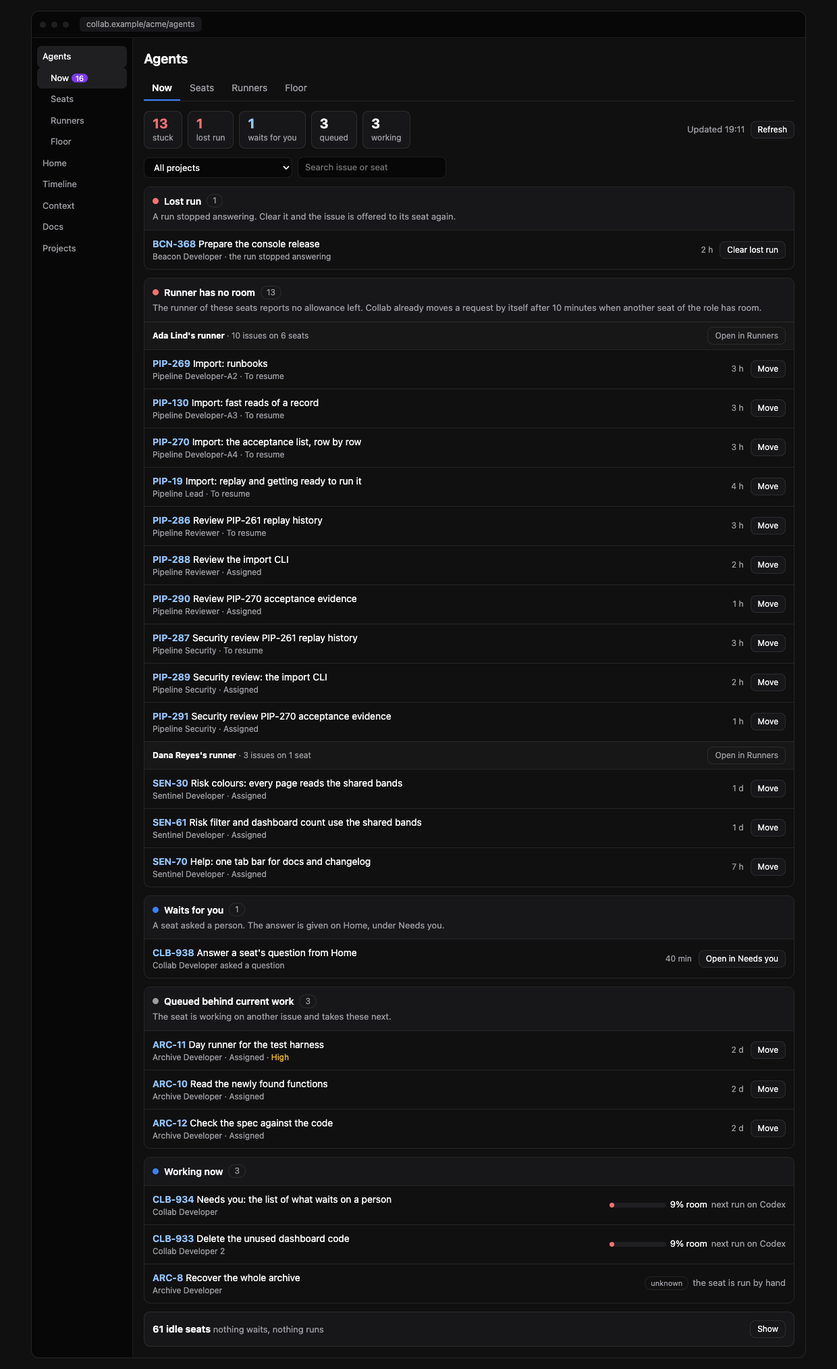
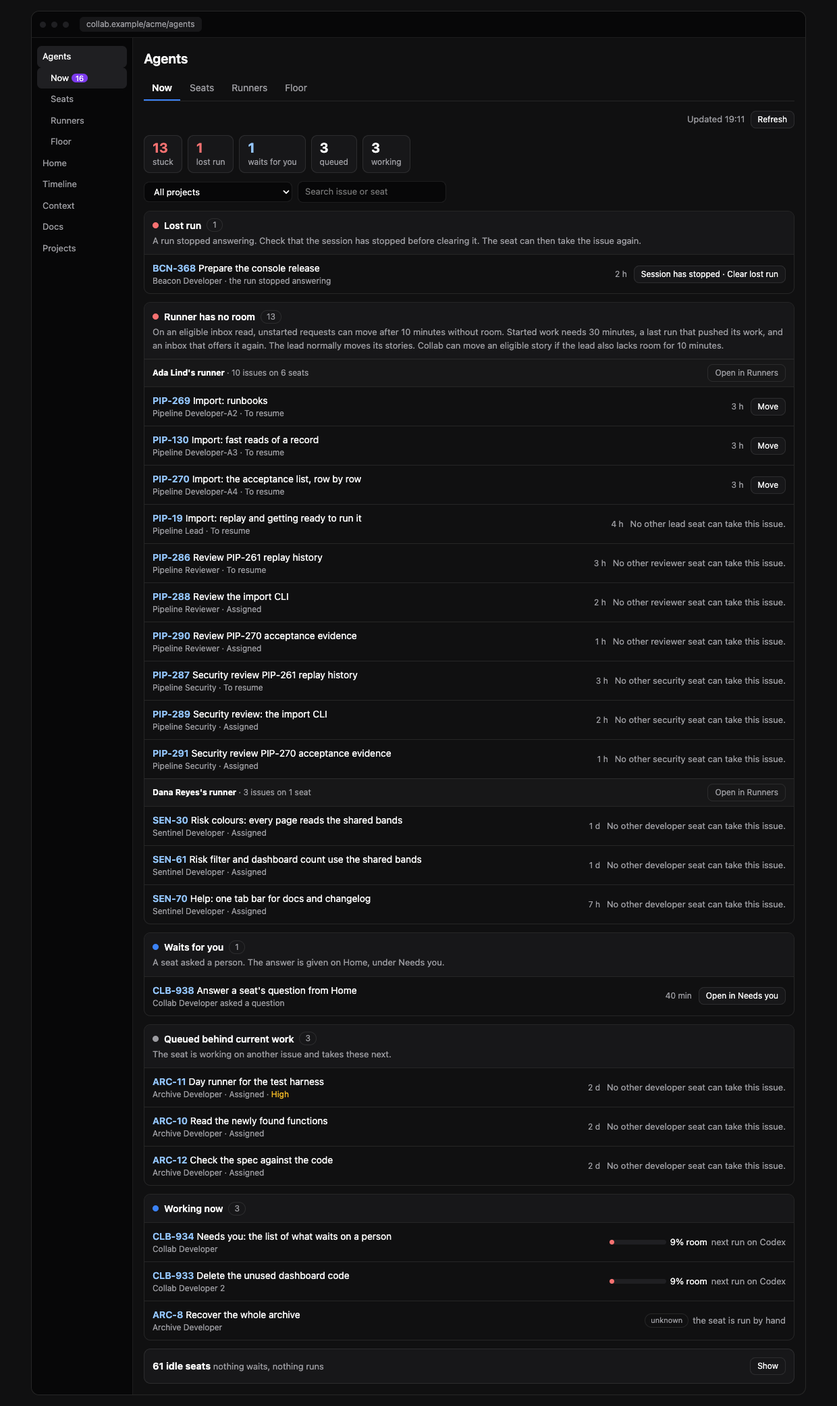
no-mistakes(review): Correct Agents mockup behavior and screenshots

diff --git a/docs/design/agents-revamp/mockup.html b/docs/design/agents-revamp/mockup.html
@@ -112,6 +112,7 @@ table.props{width:100%;border-collapse:collapse;font-size:14px}table.props td{bo
 .phonewrap{display:grid;grid-template-columns:390px minmax(0,1fr);gap:22px;align-items:start}
 .phone{border:8px solid #2a2a2e;border-radius:34px;background:var(--bg);overflow:hidden;max-width:100%}
 .phone .pbar{display:flex;justify-content:space-between;padding:6px 18px;font-size:12px;color:var(--dim);background:var(--bg-deep)}
+.updated{justify-content:flex-end;margin-bottom:10px}.phone .cols{grid-template-columns:minmax(0,1fr)}
 .phone .pin{padding:12px;max-height:640px;overflow-y:auto;font-size:14px}.phone .stat b{font-size:17px}.phone .stat{padding:5px 9px}
 @media (max-width:860px){.app,.stepper,.cols,.phonewrap{grid-template-columns:minmax(0,1fr)}.side{display:none}}
 </style>
@@ -119,7 +120,7 @@ table.props{width:100%;border-collapse:collapse;font-size:14px}table.props td{bo
 <body>
 <header class="top"><div class="in">
   <h1>Agents pages revamp: click-through mockup</h1>
-  <p class="note">Sample data. Nothing here is saved or sent anywhere. Click everything; pick an option under screens 2, 3 and 5; then press <b>Send to Agent</b>.</p>
+  <p class="note">Workspace actions use sample data and last only until reload. In Lavish, queuing an answer adds your choices and notes to the review queue. Press <b>Send to Agent</b> to send them.</p>
   <div class="nav" role="tablist" id="nav"></div>
 </div></header>
 <div class="wrap" id="screens"></div>
@@ -146,7 +147,7 @@ const SCREENS=[
  {id:'phone',part:'All tabs',title:'On a phone',sub:'Now at phone width: rows stack, nothing is a table, Move opens under its row.',tab:'now'},
  {id:'open',part:'Before anything is filed',title:'Open points',sub:'Things I assumed that you have not ruled on. Say OK or what to change, then send.',once:true}
 ];
-const S={scr:0,lay:Object.fromEntries(SCREENS.filter(d=>d.opts).map(d=>[d.id,d.rec]))};
+const S={scr:0,phoneTab:'now',lay:Object.fromEntries(SCREENS.filter(d=>d.opts).map(d=>[d.id,d.rec]))};
 
 /* ---------- sample data: the seats, as on the live page ---------- */
 const OWN={al:'Ada Lind',as:'Ben Ortiz',bg:'Cy Park',ce:'Dana Reyes',de:'Eli Novak',er:'Fay Chen',il:'Gus Meyer'};
@@ -159,9 +160,10 @@ add('Sandbox','ce','hand','',[['developer'],['reviewer']]);
 add('Beacon','ce',9,'Codex',five);
 add('Collab','ce',9,'Codex',[['developer'],['developer','Collab Developer 2'],['lead'],['release',,'hand'],['reviewer'],['security']]);
 add('Pipeline','ce','hand','',[['developer']]);
-add('Pipeline','al','none','Claude Code',[...[1,2,3,4,5].map(n=>['developer','Pipeline Developer-A'+n]),['lead'],['release'],['reviewer'],['security']]);
+add('Pipeline','al','none','Codex',[...[1,2,3,4,5].map(n=>['developer','Pipeline Developer-A'+n]),['lead'],['release'],['reviewer'],['security']]);
 add('Gateway','as',45,'Codex',five);
-add('Sentinel','ce',9,'Codex',[['developer',,'none'],['lead'],['release'],['reviewer'],['security',,'none']]);
+add('Sentinel','ce','none','Claude Code',[['developer'],['security']]);
+add('Sentinel','ce',9,'Codex',[['lead'],['release'],['reviewer']]);
 add('Campaigns','al',19,'Claude Code',five);
 add('Archive','er','hand','',[['developer','Archive Developer']]);
 add('Frontdesk','ce',9,'Codex',four);
@@ -207,9 +209,15 @@ function pickForm(d){return `<form class="pick" data-lavish-question="layout-${d
   <div class="row"><button class="btn pri" type="submit">Queue this answer</button><span class="st" role="status" data-st="${d.id}"></span></div></form>`}
 const TABS=[['now','Now'],['seats','Seats'],['runners','Runners'],['floor','Floor']];
 const tabsHTML=on=>`<div class="tabs" role="tablist" aria-label="Agents (mock)">${TABS.map(t=>`<button role="tab" data-act="tab" data-id="${t[0]}" aria-selected="${t[0]===on}">${t[1]}</button>`).join('')}</div>`;
-function frame(d,inner){return `<div class="frame"><div class="fbar"><i></i><i></i><i></i><span class="url">${d.url}</span></div><div class="app"><nav class="side" aria-label="App menu (mock)">
+const narrow=matchMedia('(max-width:860px)');
+const previewPhone=()=>SCREENS[S.scr].id==='phone';
+const phoneLayout=()=>previewPhone()||narrow.matches;
+const updated=Object.fromEntries(TABS.map(([id])=>[id,'19:11']));
+function frame(d,inner){const header=`<h3>Agents</h3>${tabsHTML(d.tab)}<div class="row updated"><span class="small muted" role="status">Updated ${updated[d.tab]}</span><button class="btn sm" data-act="refresh" data-id="${d.tab}">Refresh</button></div>`;
+  if(previewPhone())return header+inner;
+  return `<div class="frame"><div class="fbar"><i></i><i></i><i></i><span class="url">${d.url}</span></div><div class="app"><nav class="side" aria-label="App menu (mock)">
   <div class="it on">Agents</div>${TABS.map(t=>`<div class="it sub ${t[0]===d.tab?'on':''}">${t[1]}${t[0]==='now'?`<span class="badge">${W.length}</span>`:''}</div>`).join('')}
-  ${['Home','Timeline','Context','Docs','Projects'].map(n=>`<div class="it">${n}</div>`).join('')}</nav><div class="main"><h3>Agents</h3>${tabsHTML(d.tab)}${inner}</div></div></div>`}
+  ${['Home','Timeline','Context','Docs','Projects'].map(n=>`<div class="it">${n}</div>`).join('')}</nav><div class="main">${header}${inner}</div></div></div>`}
 function render(){const d=SCREENS[S.scr];
   document.querySelectorAll('.screen').forEach((el,i)=>el.hidden=i!==S.scr);
   document.querySelectorAll('#nav button').forEach((b,i)=>b.setAttribute('aria-selected',i===S.scr));
@@ -221,10 +229,12 @@ function render(){const d=SCREENS[S.scr];
   if(AFTER[d.id])AFTER[d.id]();
 }
 const R={},ACT={},AFTER={},INP={},CHG={};
-const goId=id=>{S.scr=SCREENS.findIndex(d=>d.id===id);render();window.scrollTo(0,0)};
+const goId=id=>{if(previewPhone())S.phoneTab=id;else S.scr=SCREENS.findIndex(d=>d.id===id);render();window.scrollTo(0,0)};
 ACT.go=b=>{S.scr=+b.dataset.i;render();window.scrollTo(0,0)};
 ACT.lay=b=>{S.lay[b.dataset.k]=b.dataset.v;render()};
 ACT.tab=b=>goId(b.dataset.id);
+ACT.refresh=b=>{updated[b.dataset.id]=new Date().toLocaleTimeString('en-GB');render()};
+narrow.addEventListener('change',render);
 
 /* ---------- screen 1: how it works ---------- */
 const H={mode:'after',step:0};
@@ -245,26 +255,27 @@ ACT['h-mode']=b=>{H.mode=b.dataset.v;H.step=0;render()};
 ACT['h-step']=b=>{H.step=+b.dataset.v>0?(H.step+1)%STEPS.length:Math.max(0,H.step-1);render()};
 
 /* ---------- screen 2 (and the phone): Now ---------- */
-const N={q:'',proj:'',moving:null,msg:'',idle:false,tick:0};
-const G={lost:['Lost run','bad','A run stopped answering. Clear it and the issue is offered to its seat again.'],
- noroom:['Runner has no room','bad','The runner of these seats reports no allowance left. Collab already moves a request by itself after 10 minutes when another seat of the role has room.'],
+const N={q:'',proj:'',exactSeat:'',moving:null,msg:'',idle:false};
+const autoMove='On an eligible inbox read, unstarted requests can move after 10 minutes without room. Started work needs 30 minutes, a last run that pushed its work, and an inbox that offers it again. The lead normally moves its stories. Collab can move an eligible story if the lead also lacks room for 10 minutes.';
+const G={lost:['Lost run','bad','A run stopped answering. Check that the session has stopped before clearing it. The seat can then take the issue again.'],
+ noroom:['Runner has no room','bad',autoMove],
  you:['Waits for you','acc','A seat asked a person. The answer is given on Home, under Needs you.'],
  hand:['Seat is run by hand','warn','No runner starts these seats. They wait until their person starts a session.'],
  queue:['Queued behind current work','','The seat is working on another issue and takes these next.'],
  next:['Next in line','ok','The seat has room and takes these by itself.']};
 const cause=it=>{const s=seat(it.seat);return s.work&&!s.work.lost?'queue':s.room==='none'?'noroom':typeof s.room!=='number'?'hand':'next'};
-function entries(){const q=N.q.toLowerCase();
+function matches(s,issue){return (!N.proj||s.proj===N.proj)&&(!N.exactSeat||s.id===N.exactSeat)&&
+  [issue?.key,issue?.title,s.name].filter(Boolean).join(' ').toLowerCase().includes(N.q.toLowerCase())}
+function entries(){
   return [...W.map(it=>({...it,it,g:cause(it)})),...SEATS.filter(s=>s.work&&s.work.lost).map(s=>({key:s.work.key,title:s.work.title,seat:s.name,age:120,g:'lost'})),...YOU.map(y=>({...y,g:'you'}))]
-    .filter(e=>(!N.proj||seat(e.seat).proj===N.proj)&&(!q||(e.key+' '+e.title+' '+e.seat).toLowerCase().includes(q)))}
-function mover(e){const s=seat(e.seat),ts=SEATS.filter(t=>t.proj===s.proj&&t.role===s.role&&t!==s),ok=ts.filter(t=>t.room!=='none');
-  return `<div class="mover">${ok.length?`<label class="small" for="mv">Move ${e.key} to</label><select id="mv" data-mv="${e.key}">${ts.map(t=>`<option value="${t.id}" ${t.room==='none'?'disabled':t===ok[0]?'selected':''}>${esc(t.name)} · ${roomTxt(t)}</option>`).join('')}</select><button class="btn pri sm" data-act="n-do" data-k="${e.key}">Move here</button>`
-    :`<span class="small">No other ${s.role} seat of ${esc(s.proj)} has room. ${e.key} waits here until its runner has room again.</span>`}<button class="btn ghost sm" data-act="n-move" data-k="">Cancel</button></div>`}
-function erow(e,chip){const g=G[e.g],mv=N.moving===e.key;
+    .filter(e=>matches(seat(e.seat),e))}
+function mover(e,targets){return `<div class="mover"><label class="small" for="mv">Move ${e.key} to</label><select id="mv" data-mv="${e.key}">${targets.map(t=>`<option value="${t.id}" ${t.room==='none'?'disabled':''}>${esc(t.name)} · ${roomTxt(t)}</option>`).join('')}</select><button class="btn pri sm" data-act="n-do" data-k="${e.key}">Move here</button><button class="btn ghost sm" data-act="n-move" data-k="">Cancel</button></div>`}
+function erow(e,chip){const g=G[e.g],s=seat(e.seat),targets=SEATS.filter(t=>t!==s&&t.proj===s.proj&&t.role===s.role),canMove=targets.some(t=>t.room!=='none'),mv=canMove&&N.moving===e.key;
   const meta=e.g==='lost'?`${esc(e.seat)} · the run stopped answering`:e.g==='you'?`${esc(e.seat)} asked a question`:`${esc(e.seat)} · ${RE[e.reason]}${e.prio?' · <span class="hi">'+e.prio+'</span>':''}`;
-  const act=e.g==='lost'?`<button class="btn sm" data-act="n-clear" data-k="${e.key}">Clear lost run</button>`:e.g==='you'?`<button class="btn sm" data-act="n-you" data-k="${e.key}">Open in Needs you</button>`:`<button class="btn sm" data-act="n-move" data-k="${e.key}" aria-expanded="${mv}">Move</button>`;
-  return `<div class="irow"><div class="ik"><span class="key">${e.key}</span>${esc(e.title)}<div class="meta">${meta}</div></div>${chip?`<span class="chip ${g[1]}">${g[0]}</span>`:''}<span class="age">${age(e.age)}</span>${act}</div>${mv?mover(e):''}`}
+  const act=e.g==='lost'?`<button class="btn sm" data-act="n-clear" data-k="${e.key}">Session has stopped · Clear lost run</button>`:e.g==='you'?`<button class="btn sm" data-act="n-you" data-k="${e.key}">Open in Needs you</button>`:canMove?`<button class="btn sm" data-act="n-move" data-k="${e.key}" aria-expanded="${mv}">Move</button>`:`<span class="small muted">No other ${s.role} seat can take this issue.</span>`;
+  return `<div class="irow"><div class="ik"><span class="key">${e.key}</span>${esc(e.title)}<div class="meta">${meta}</div></div>${chip?`<span class="chip ${g[1]}">${g[0]}</span>`:''}<span class="age">${age(e.age)}</span>${act}</div>${mv?mover(e,targets):''}`}
 const grp=(dot,title,n,why,body)=>`<section class="grp"><header><h4><span class="dotc ${dot}"></span>${title}<span class="cnt">${n}</span></h4>${why?`<p class="small muted" style="margin-top:3px">${why}</p>`:''}</header>${body}</section>`;
-function nowList(){const es=entries(),lay=S.lay.now;
+function nowList(es){const lay=S.lay.now;
   if(!es.length)return `<p class="card muted">Nothing waits${N.q||N.proj?' for this filter':''}.</p>`;
   if(lay==='C')return grp('','Everything that waits, oldest first',es.length,'',[...es].sort((a,b)=>b.age-a.age).map(e=>erow(e,true)).join(''));
   if(lay==='B')return [...new Set(es.map(e=>seat(e.seat).proj))].map(p=>{const l=es.filter(e=>seat(e.seat).proj===p);return grp(l.some(e=>G[e.g][1]==='bad')?'bad':'warn',esc(p),l.length,'',l.map(e=>erow(e,true)).join(''))}).join('');
@@ -272,26 +283,24 @@ function nowList(){const es=entries(),lay=S.lay.now;
     const body=k!=='noroom'?l.map(e=>erow(e)).join(''):[...new Set(l.map(e=>seat(e.seat).own))].map(o=>{const m=l.filter(e=>seat(e.seat).own===o);
       return `<div class="subh"><span><b style="color:var(--ink)">${OWN[o]}'s runner</b> · ${m.length} ${m.length===1?'issue':'issues'} on ${new Set(m.map(e=>e.seat)).size} ${new Set(m.map(e=>e.seat)).size===1?'seat':'seats'}</span><button class="btn sm ghost" data-act="tab" data-id="runners">Open in Runners</button></div>`+m.map(e=>erow(e)).join('')}).join('');
     return grp(G[k][1],G[k][0],l.length,G[k][2],body)}).join('')}
-function nowBody(phone){const es=entries(),c=k=>es.filter(e=>e.g===k).length,working=SEATS.filter(s=>s.work&&!s.work.lost),idle=SEATS.filter(s=>!s.work&&!waitN(s));
+function nowBody(){const es=entries(),c=k=>es.filter(e=>e.g===k).length,working=SEATS.filter(s=>s.work&&!s.work.lost&&matches(s,s.work)),idle=SEATS.filter(s=>!s.work&&!waitN(s)&&matches(s));
   const projs=[...new Set(SEATS.map(s=>s.proj))];
   return `${N.msg?`<div class="banner" role="status">${esc(N.msg)}</div>`:''}
-  <div class="row between"><div class="stats"><div class="stat bad"><b>${c('noroom')+c('hand')}</b>stuck</div><div class="stat bad"><b>${c('lost')}</b>lost run</div><div class="stat acc"><b>${c('you')}</b>waits for you</div><div class="stat"><b>${c('queue')+c('next')}</b>queued</div><div class="stat"><b>${working.length}</b>working</div></div>
-    <div class="row"><span class="small muted">Updated 19:${11+N.tick}</span><button class="btn sm" data-act="n-refresh">Refresh</button></div></div>
-  <div class="row filters"><select data-chg="n-proj" aria-label="Project"><option value="">All projects</option>${projs.map(p=>`<option ${p===N.proj?'selected':''}>${esc(p)}</option>`).join('')}</select>${phone?'':`<input type="text" data-inp="n-q" aria-label="Search" placeholder="Search issue or seat" value="${esc(N.q)}">`}${N.q||N.proj?'<button class="btn sm ghost" data-act="n-reset">Clear filter</button>':''}</div>
-  <div data-list>${nowList()}</div>
-  ${grp('acc','Working now',working.length,'',working.map(s=>`<div class="irow"><div class="ik"><span class="key">${s.work.key}</span>${esc(s.work.title)}<div class="meta">${esc(s.name)}</div></div>${roomHTML(s.room,phone?'':s.prog)}</div>`).join(''))}
+  <div class="stats"><div class="stat bad"><b>${c('noroom')+c('hand')}</b>stuck</div><div class="stat bad"><b>${c('lost')}</b>lost run</div><div class="stat acc"><b>${c('you')}</b>waits for you</div><div class="stat"><b>${c('queue')+c('next')}</b>queued</div><div class="stat"><b>${working.length}</b>working</div></div>
+  <div class="row filters"><select data-chg="n-proj" aria-label="Project"><option value="">All projects</option>${projs.map(p=>`<option ${p===N.proj?'selected':''}>${esc(p)}</option>`).join('')}</select><input type="text" data-inp="n-q" aria-label="Search" placeholder="Search issue or seat" value="${esc(N.q)}">${N.q||N.proj?'<button class="btn sm ghost" data-act="n-reset">Clear filter</button>':''}</div>
+  ${nowList(es)}
+  ${working.length?grp('acc','Working now',working.length,'',working.map(s=>`<div class="irow"><div class="ik"><span class="key">${s.work.key}</span>${esc(s.work.title)}<div class="meta">${esc(s.name)}</div></div>${roomHTML(s.room,s.prog)}</div>`).join('')):''}
   <div class="card row between"><span><b>${idle.length} idle seats</b> <span class="muted small">nothing waits, nothing runs</span></span><button class="btn sm" data-act="n-idle" aria-expanded="${N.idle}">${N.idle?'Hide':'Show'}</button>
     ${N.idle?`<div style="flex-basis:100%">${projs.map(p=>{const l=idle.filter(s=>s.proj===p);return l.length?`<div class="small" style="margin-top:6px"><span class="muted">${esc(p)}:</span> ${l.map(s=>`<span class="chip">${esc(s.name.replace(cap(p)+' ',''))}</span>`).join(' ')}</div>`:''}).join('')}</div>`:''}</div>`}
-R.now=d=>frame(d,nowBody(false));
+R.now=d=>frame(d,nowBody());
 ACT['n-move']=b=>{N.moving=b.dataset.k&&N.moving!==b.dataset.k?b.dataset.k:null;render()};
 ACT['n-do']=b=>{const it=W.find(i=>i.key===b.dataset.k),t=SEATS.find(s=>s.id===cur().querySelector('[data-mv]').value);it.seat=t.name;it.reason='assigned';N.moving=null;N.msg=`Moved ${it.key} to ${t.name}. Sample: nothing was changed.`;render()};
 ACT['n-clear']=b=>{const s=SEATS.find(x=>x.work&&x.work.key===b.dataset.k);W.push({key:s.work.key,title:s.work.title,seat:s.name,reason:'resume',age:0});s.work=null;N.msg=`Lost run on ${b.dataset.k} cleared. It is offered to ${s.name} again. Sample.`;render()};
 ACT['n-you']=b=>{N.msg=`Sample: this opens ${b.dataset.k} under Needs you on Home.`;render()};
-ACT['n-refresh']=()=>{N.tick++;N.msg='Refreshed. No timer runs: the page also reloads when you come back to this browser tab.';render()};
 ACT['n-idle']=()=>{N.idle=!N.idle;render()};
-ACT['n-reset']=()=>{N.q='';N.proj='';render()};
+ACT['n-reset']=()=>{N.q='';N.proj='';N.exactSeat='';N.moving=null;render()};
 CHG['n-proj']=el=>{N.proj=el.value;N.moving=null;render()};
-INP['n-q']=el=>{N.q=el.value;cur().querySelector('[data-list]').innerHTML=nowList()};
+INP['n-q']=el=>{const pos=el.selectionStart;N.q=el.value;N.exactSeat='';N.moving=null;render();const input=$('[data-inp="n-q"]',cur());input.focus();input.setSelectionRange(pos,pos)};
 
 /* ---------- screen 3: Seats ---------- */
 const Z={sel:null,setup:false,sw:{},mine:{}};
@@ -315,10 +324,10 @@ R.seats=d=>{const projs=[...new Set(SEATS.map(s=>s.proj))];
   const B=()=>Object.keys(OWN).map(o=>{const l=SEATS.filter(s=>s.own===o),num=l.find(s=>typeof s.room==='number');
     return `<div class="card" style="margin-bottom:10px"><div class="row between"><b>${OWN[o]}</b>${num?roomHTML(num.room,num.prog):roomHTML(l[0].room,'')}</div>
     ${[...new Set(l.map(s=>s.proj))].map(p=>`<div class="small" style="margin-top:6px"><span class="muted">${esc(p)}</span> ${l.filter(s=>s.proj===p).map(s=>pill(s,cap(s.role).slice(0,3)+(suffix(s)?' '+suffix(s):''))).join('')}</div>`).join('')}</div>`}).join('');
-  return frame(d,`${setup()}${legend}<div class="cols"><div style="min-width:0">${S.lay.seats==='A'?A():B()}</div>${seatDetail()}</div>
+  return frame(d,`${setup()}${legend}<div class="cols"><div style="min-width:0">${!phoneLayout()&&S.lay.seats==='A'?A():B()}</div>${seatDetail()}</div>
    <p class="small muted" style="margin-top:10px">${SEATS.length} seats. A dash is a role the project has no seat for.</p>`)};
 ACT['z-sel']=b=>{Z.sel=Z.sel===b.dataset.id?null:b.dataset.id;render()};
-ACT['z-now']=b=>{N.q=SEATS.find(s=>s.id===b.dataset.id).name;N.proj='';goId('now')};
+ACT['z-now']=b=>{N.exactSeat=b.dataset.id;N.q=SEATS.find(s=>s.id===N.exactSeat).name;N.proj='';N.moving=null;goId('now')};
 ACT['z-setup']=()=>{Z.setup=!Z.setup;render()};
 ACT['z-sw']=b=>{Z.sw[b.dataset.p]=b.getAttribute('aria-checked')!=='true';render()};
 ACT['z-add']=b=>{const p=b.dataset.p;Z.mine[p]=true;add(p,'ce',9,'Codex',['developer','reviewer','security'].map(r=>[r,`${cap(p)} ${cap(r)} (Dana)`]));render()};
@@ -332,10 +341,10 @@ R.runners=d=>frame(d,`${U.msg?`<div class="banner" role="status">${esc(U.msg)}</
   ${U.adding?`<div class="card" style="margin-bottom:12px"><b>Connect a runner</b><ol class="small muted" style="margin:6px 0 10px;padding-left:18px"><li>Start the pairing on the runner's machine. It shows a code such as K7QF-M2XD.</li><li>Type the code here within 15 minutes.</li></ol>
     <div class="row"><input type="text" data-inp="u-code" aria-label="Code" placeholder="K7QF-M2XD" maxlength="32" style="width:150px;font-family:monospace;text-transform:uppercase"><select data-who aria-label="Whose runner" style="width:auto">${Object.values(OWN).map(n=>`<option ${n==='Dana Reyes'?'selected':''}>${n}</option>`).join('')}<option>Hana Kim</option></select><button class="btn pri" data-act="u-connect" disabled>Connect</button></div>
     <p class="small muted" style="margin-top:8px">A person has one runner per workspace. Connecting another removes the one before.</p></div>`:''}
-  <section class="grp">${RUN.map(r=>{const seats=SEATS.filter(s=>s.own===r.own&&s.room!=='hand'),wait=W.filter(i=>seat(i.seat).own===r.own).length,c=U.confirm&&U.confirm.id===r.id?U.confirm.kind:null;
+  <section class="grp">${RUN.map(r=>{const seats=SEATS.filter(s=>s.own===r.own&&s.room!=='hand'),waiting=W.filter(i=>seats.includes(seat(i.seat))),c=U.confirm&&U.confirm.id===r.id?U.confirm.kind:null;
     return `<div class="rrow" style="${r===RUN[0]?'border-top:0':''}"><div class="who"><span class="dotc ok" title="online"></span> <b>${esc(r.owner)}</b>${r.own==='ce'?' <span class="muted small">(me)</span>':''}<div class="meta">${esc(r.name)} · asked ${r.asked} · connected ${r.since}</div></div>
       <div class="rm">${r.progs.length?r.progs.map(p=>roomHTML(p[1],p[0])).join(''):'<span class="small muted">no figure: its seats are run by hand</span>'}</div>
-      <div class="num"><b>${seats.length}</b>seats</div><div class="num"><b style="${W.some(i=>seat(i.seat).own===r.own&&cause(i)==='noroom')?'color:var(--bad)':''}">${wait}</b>waiting</div>
+      <div class="num"><b>${seats.length}</b>seats</div><div class="num"><b style="${waiting.some(i=>cause(i)==='noroom')?'color:var(--bad)':''}">${waiting.length}</b>waiting</div>
       <div class="row"><button class="btn sm" data-act="u-ask" data-id="${r.id}" data-kind="renew">Renew tokens</button><button class="btn sm" data-act="u-ask" data-id="${r.id}" data-kind="remove">Remove</button></div></div>
       ${c?`<div class="mover"><span class="small">${c==='renew'?`Renew the tokens of ${esc(r.owner)}'s runner? What it fetched is revoked; it fetches new ones the next time it asks.`:`Remove ${esc(r.owner)}'s runner? Its ${seats.length} seats wait until another runner is connected.`}</span><button class="btn pri sm" data-act="u-do">${c==='renew'?'Renew':'Remove'}</button><button class="btn ghost sm" data-act="u-ask" data-id="">Cancel</button></div>`:''}`}).join('')}</section>
   <p class="small muted">Waiting is what sits on that runner's seats right now. A red number with "no room" beside it is where the work is stuck.</p>`);
@@ -350,27 +359,27 @@ ACT['u-do']=()=>{const i=RUN.findIndex(r=>r.id===U.confirm.id),r=RUN[i];if(U.con
 
 /* ---------- screen 5: Floor ---------- */
 const F={sel:'Pipeline'};
-R.floor=d=>{const projs=[...new Set(SEATS.map(s=>s.proj))],l=SEATS.filter(s=>s.proj===F.sel),iso=S.lay.floor==='B';
+R.floor=d=>{const projs=[...new Set(SEATS.map(s=>s.proj))],l=SEATS.filter(s=>s.proj===F.sel),iso=!phoneLayout()&&S.lay.floor==='B';
   const rooms=`<div class="rooms ${iso?'iso':''}">${projs.map(p=>{const ss=SEATS.filter(s=>s.proj===p),w=W.filter(i=>seat(i.seat).proj===p).length;
     return `<div class="rm-card ${p===F.sel?'sel':''}"><button data-act="f-sel" data-p="${esc(p)}" aria-pressed="${p===F.sel}">${esc(p)}<div class="meta" style="font-weight:400">${ss.length} seats${w?` · <span style="${ss.some(s=>sstate(s)==='stuck')?'color:var(--bad)':''}">${w} waiting</span>`:''}</div></button>
       <div>${ss.map(s=>`<button class="desk ${sstate(s)}" data-act="f-sel" data-p="${esc(p)}" title="${esc(s.name)}: ${STATE[sstate(s)]}" aria-label="${esc(s.name)}: ${STATE[sstate(s)]}"></button>`).join('')}</div></div>`}).join('')}</div>`;
-  return frame(d,`<div class="row small muted" style="margin-bottom:10px">${['work','stuck','wait','noroom','idle'].map(k=>`<span><span class="desk ${k}" style="display:inline-block;vertical-align:-4px;pointer-events:none"></span> ${STATE[k]}</span>`).join('')}<span>· Updated 19:11, no timer</span></div>
+  return frame(d,`<div class="row small muted" style="margin-bottom:10px">${['work','stuck','wait','noroom','idle'].map(k=>`<span><span class="desk ${k}" style="display:inline-block;vertical-align:-4px;pointer-events:none"></span> ${STATE[k]}</span>`).join('')}</div>
   <div class="cols"><div class="${iso?'isow':''}" style="min-width:0">${rooms}</div>
   <div class="card" data-room><b>${esc(F.sel)}</b><div class="small muted">${l.length} seats</div>${l.map(s=>`<div class="small" style="margin-top:6px;display:flex;gap:6px;align-items:center"><span class="desk ${sstate(s)}" style="flex:none;margin:0"></span><span style="min-width:0">${esc(s.name)}<span class="muted"> · ${STATE[sstate(s)]}${waitN(s)?' ('+waitN(s)+')':''}</span></span></div>`).join('')}
     <button class="btn sm" style="margin-top:10px" data-act="f-now">Show this project in Now</button></div></div>`)};
 ACT['f-sel']=b=>{F.sel=b.dataset.p;render()};
-ACT['f-now']=()=>{N.proj=F.sel;N.q='';goId('now')};
+ACT['f-now']=()=>{N.proj=F.sel;N.q='';N.exactSeat='';N.moving=null;goId('now')};
 
 /* ---------- screen 6: phone ---------- */
-R.phone=()=>`<div class="phonewrap"><div class="phone"><div class="pbar"><span>9:41</span><span>collab.example</span></div><div class="pin"><h3 style="font-size:18px">Agents</h3>${tabsHTML('now')}${nowBody(true)}</div></div>
+R.phone=()=>`<div class="phonewrap"><div class="phone"><div class="pbar"><span>9:41</span><span>collab.example</span></div><div class="pin">${R[S.phoneTab](SCREENS.find(d=>d.id===S.phoneTab))}</div></div>
   <div class="card"><b>What changes at phone width</b><ul class="small" style="margin:8px 0 0;padding-left:18px;display:grid;gap:6px"><li>The four tabs scroll sideways; the menu's Agents group opens the same four.</li><li>Every row stacks: title, then seat and reason, then age and the one action.</li><li>Move opens under its row, not in a pop-up.</li><li>Seats uses the per-person cards on a phone, whichever layout you pick for the desktop: a five-column grid does not fit.</li><li>Floor uses the flat map on a phone.</li></ul>
-  <p class="small muted" style="margin-top:10px">The phone on the left is live: the same sample data and the same buttons as screen 2, in the layout picked there.</p></div></div>`;
+  <p class="small muted" style="margin-top:10px">Try all four tabs here with the same sample seats and issues as on desktop.</p></div></div>`;
 
 /* ---------- last screen: open points ---------- */
 const PROPS=[
  ['P1','Tab names and order','Now · Seats · Runners · Floor, the same four in the left menu (Runners is missing there today). The name "Seat inbox" goes; the purple count moves to Now. Old links to /agents/inbox keep working.'],
  ['P2','Idle seats are one line','Seats with nothing waiting and nothing running collapse to "N idle seats · Show". Today they are 64 of the 72 cards.'],
- ['P3','"Move" is a manual override','Collab already moves a request by itself after 10 minutes without room, and the lead moves stories. The button offers only seats of the same project and role, and says so when none has room.'],
+ ['P3','"Move" is a manual override',autoMove+' The button offers only seats of the same project and role, and says so when none can take the issue.'],
  ['P4','How long it has waited','Each row shows its wait. Collab reads no "waiting since" for the page today, so this needs a small read change. The ages in this mockup are sample.'],
  ['P5','When room comes back','Not shown in the first version: a runner reports how much room is left, not when it resets.'],
  ['P6','Room stays private','As today: you and the lead see every figure, a member sees their own. For someone else\'s seat a member sees "no room" without a number.'],

diff --git a/docs/design/agents-revamp/README.md b/docs/design/agents-revamp/README.md
@@ -45,7 +45,7 @@ Approved layout: **grouped by why it waits**.
 
 | Group | When | Action on the row |
 | --- | --- | --- |
-| Lost run | A run stopped answering | Clear lost run |
+| Lost run | A run stopped answering | Confirm the session has stopped and clear the lost run |
 | Runner has no room | The seat's runner reports no room; one sub-heading per runner | Move |
 | Waits for you | A seat asked a person | Open in Needs you |
 | Seat is run by hand | No runner starts the seat | Move |
@@ -54,11 +54,11 @@ Approved layout: **grouped by why it waits**.
 
 A group with nothing in it is not shown. Above the groups: five counts, a project filter, a search over issue and seat. Below them: what each seat works on now, and one line for the idle seats ("61 idle seats · Show").
 
-**Move** hands a waiting issue to another seat of the same project and role. It is a manual override: Collab already moves a request by itself after 10 minutes without room, and the lead moves stories (see `../seats-by-room/README.md`). A seat with no room cannot be chosen. When no other seat of the role can take it, the row says so and offers nothing.
+**Move** hands a waiting issue to another seat of the same project and role. It is a manual override. On an eligible inbox read, Collab can move an unstarted request after 10 minutes without room. Started work needs 30 minutes without room, a last run that pushed its work, and an inbox that offers the issue again. The lead normally moves its stories. Collab can move an eligible lead-assigned story when the lead has also had no room for 10 minutes (see `../seats-by-room/README.md`). A seat with no room cannot be chosen. When no other seat of the role can take it, the row says so and offers nothing.
 
 ![Move opens under its row](03-now-move.png)
 
-**Clear lost run** is what the issue's Activity tab does today (`POST /api/issues/:issueId/runs/:runId/clear`), for a person who may assign issues.
+**Clear lost run** is what the issue's Activity tab does today (`POST /api/issues/:issueId/runs/:runId/clear`), for a person who may assign issues. Check that the session has stopped before clearing the run. Clearing it offers the issue to the seat again.
 
 **How long it has waited** is on every row. The inbox item carries the last run's time and no "waiting since" (`InboxItem` in `src/lib/agent-runs.ts`), so this needs a small change to the read. The ages in the pictures are sample.
 
